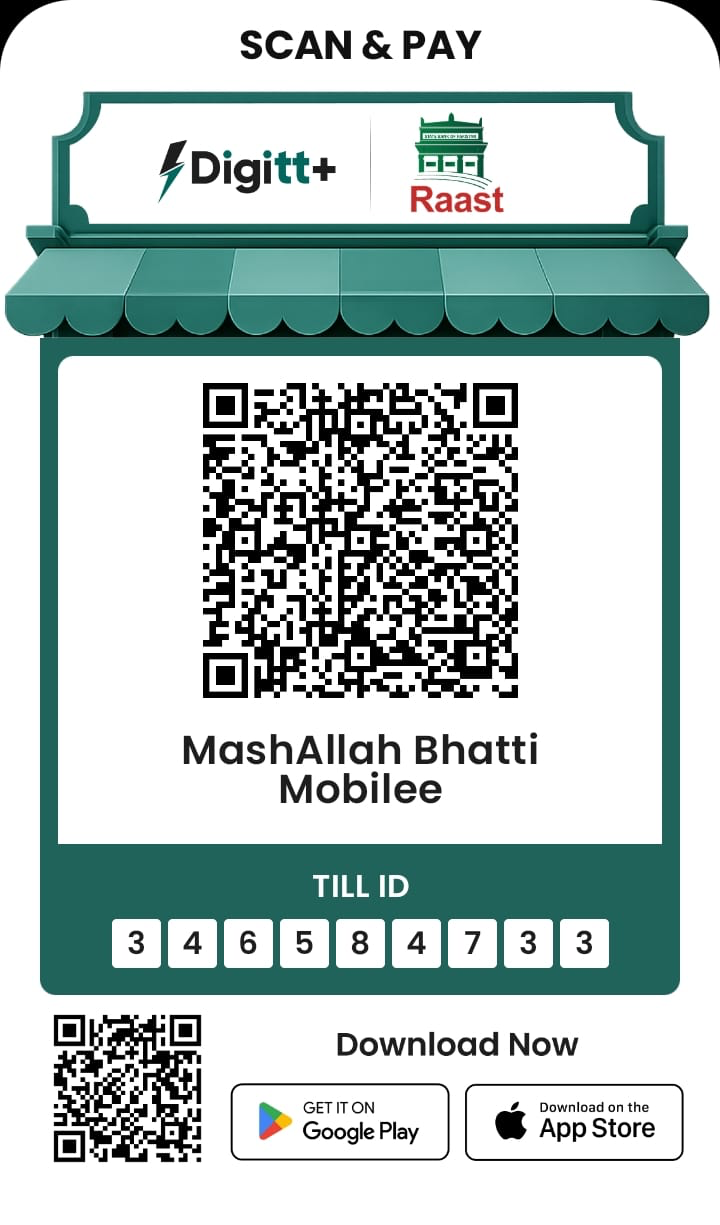
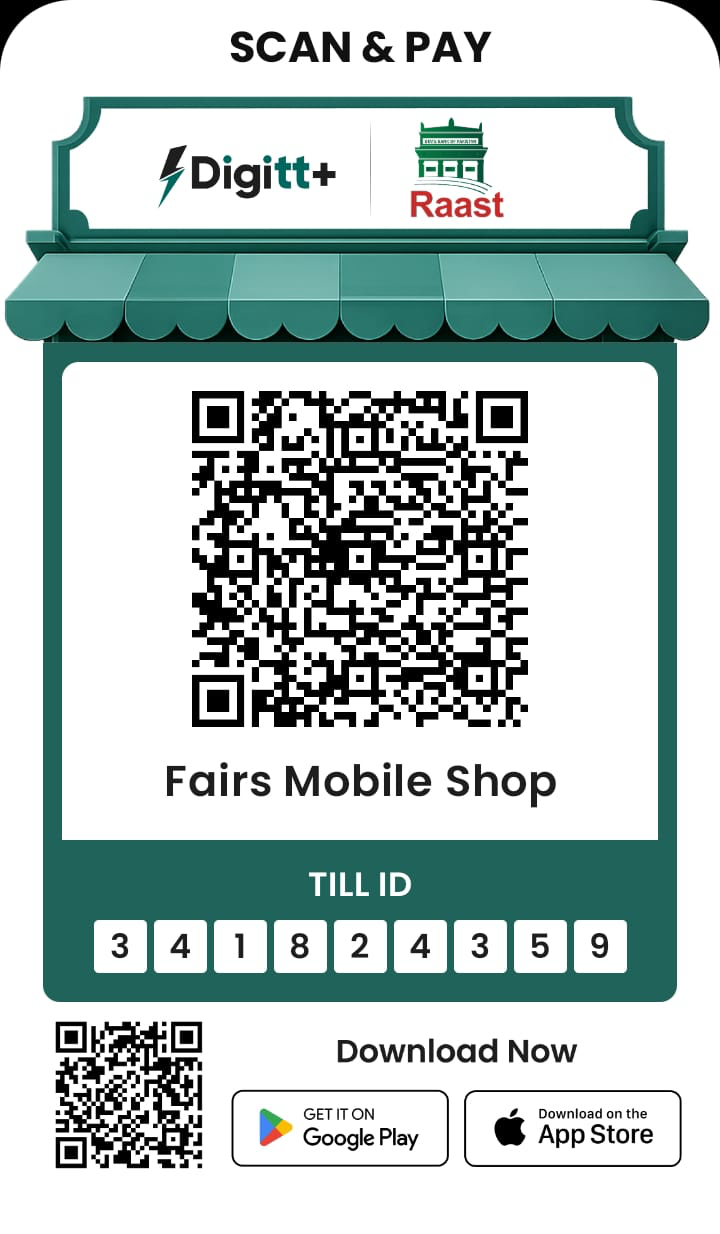
fix: topbar mobile spacing, drawer nav alignment, light mode back button, deposit Digitt+ Till ID update, and admin delete fallback

Changed region(s): [[0.0, 0.0, 0.9778, 0.9616]]

diff --git a/backend/src/routes/modules/admin.routes.js b/backend/src/routes/modules/admin.routes.js
@@ -1136,57 +1136,57 @@ router.get(
   }),
 );
 
-router.delete(
-  "/deposits/:id",
-  asyncHandler(async (req, res) => {
-    const depositId = Number(req.params.id);
-    if (!depositId) throw new ApiError(400, "Invalid deposit ID");
-    const deposit = await db("deposits").where({ id: depositId }).first();
-    if (!deposit) throw new ApiError(404, "Deposit not found");
+const deleteDepositHandler = asyncHandler(async (req, res) => {
+  const depositId = Number(req.params.id);
+  if (!depositId) throw new ApiError(400, "Invalid deposit ID");
+  const deposit = await db("deposits").where({ id: depositId }).first();
+  if (!deposit) throw new ApiError(404, "Deposit not found");
 
-    await db.transaction(async (trx) => {
-      // 1. Delete associated transactions if reference exists
-      if (deposit.reference) {
-        await trx("transactions").where({ reference: deposit.reference }).del();
-      }
-
-      // 2. Delete the deposit record
-      await trx("deposits").where({ id: depositId }).del();
-
-      // 3. Record admin audit action safely
-      try {
-        await trx("admin_actions").insert({
-          admin_id: req.user.id,
-          action: "delete_deposit",
-          target_type: "deposit",
-          target_id: String(depositId),
-          meta: JSON.stringify({
-            amount: deposit.amount,
-            status: deposit.status,
-            userId: deposit.user_id,
-            method: deposit.method,
-          }),
-        });
-      } catch (actionErr) {
-        console.warn("Failed to record admin action for delete_deposit:", actionErr.message);
-      }
-    });
-
-    // 4. Safely clean up proof image from disk if exists
-    if (deposit.proof_path) {
-      try {
-        const filePath = path.join(process.cwd(), deposit.proof_path.replace(/^\//, ""));
-        if (fs.existsSync(filePath)) {
-          fs.unlinkSync(filePath);
-        }
-      } catch (fileErr) {
-        console.warn("Failed to remove deposit proof file:", fileErr.message);
-      }
+  await db.transaction(async (trx) => {
+    // 1. Delete associated transactions if reference exists
+    if (deposit.reference) {
+      await trx("transactions").where({ reference: deposit.reference }).del();
     }
 
-    res.json({ success: true, message: "Deposit deleted successfully" });
-  }),
-);
+    // 2. Delete the deposit record
+    await trx("deposits").where({ id: depositId }).del();
+
+    // 3. Record admin audit action safely
+    try {
+      await trx("admin_actions").insert({
+        admin_id: req.user.id,
+        action: "delete_deposit",
+        target_type: "deposit",
+        target_id: String(depositId),
+        meta: JSON.stringify({
+          amount: deposit.amount,
+          status: deposit.status,
+          userId: deposit.user_id,
+          method: deposit.method,
+        }),
+      });
+    } catch (actionErr) {
+      console.warn("Failed to record admin action for delete_deposit:", actionErr.message);
+    }
+  });
+
+  // 4. Safely clean up proof image from disk if exists
+  if (deposit.proof_path) {
+    try {
+      const filePath = path.join(process.cwd(), deposit.proof_path.replace(/^\//, ""));
+      if (fs.existsSync(filePath)) {
+        fs.unlinkSync(filePath);
+      }
+    } catch (fileErr) {
+      console.warn("Failed to remove deposit proof file:", fileErr.message);
+    }
+  }
+
+  res.json({ success: true, message: "Deposit deleted successfully" });
+});
+
+router.delete("/deposits/:id", deleteDepositHandler);
+router.post("/deposits/:id/delete", deleteDepositHandler);
 
 router.get(
   "/withdrawals",

diff --git a/src/App.css b/src/App.css
@@ -965,9 +965,25 @@ select:-webkit-autofill {
 }
 
 .mobile-drawer-nav .nav-item {
-  padding: 0.65rem 0.85rem;
-  font-size: 0.94rem;
+  display: flex !important;
+  align-items: center !important;
+  justify-content: flex-start !important;
+  text-align: left !important;
+  gap: 0.85rem !important;
+  padding: 0.7rem 0.95rem !important;
+  font-size: 0.95rem !important;
   border-radius: 12px;
+}
+
+.mobile-drawer-nav .nav-item svg {
+  flex-shrink: 0;
+  width: 18px;
+  height: 18px;
+}
+
+.mobile-drawer-nav .nav-item span {
+  text-align: left;
+  flex: 1;
 }
 
 .install-prompt-card {
@@ -4087,6 +4103,19 @@ body[data-theme='light'] .topbar {
   box-shadow: 0 8px 25px rgba(94, 126, 55, 0.08);
 }
 
+body[data-theme='light'] .mobile-page-back {
+  background: rgba(122, 159, 76, 0.12) !important;
+  border: 1px solid rgba(122, 159, 76, 0.35) !important;
+  color: #233023 !important;
+  box-shadow: 0 2px 8px rgba(94, 126, 55, 0.08) !important;
+}
+
+body[data-theme='light'] .mobile-page-back:hover {
+  background: rgba(122, 159, 76, 0.22) !important;
+  border-color: rgba(122, 159, 76, 0.5) !important;
+  color: #1a241a !important;
+}
+
 body[data-theme='light'] .sidebar .brand-lockup {
   background: #ffffff;
   border: 1px solid rgba(122, 159, 76, 0.28);
@@ -4657,29 +4686,37 @@ body[data-theme='light'] .glass-card {
     grid-template-columns: 1fr;
   }
 
-  .sidebar {
-    position: static;
-    height: auto;
-    padding: 0.85rem;
+  .sidebar.desktop-sidebar {
+    display: none !important;
   }
 
   .main-content {
-    padding: 0.85rem;
-    padding-top: 0.75rem;
+    padding: 0.75rem 0.65rem 4rem 0.65rem;
   }
 
   .topbar {
-    gap: 0.65rem;
+    position: sticky;
+    top: 0;
+    z-index: 100;
+    display: flex;
+    align-items: center;
+    justify-content: space-between;
+    flex-wrap: nowrap;
+    gap: 0.5rem;
+    padding: 0.6rem 0.85rem;
+    margin-bottom: 0.5rem;
   }
 
   .top-actions {
-    width: 100%;
+    width: auto;
     gap: 0.45rem;
-    flex-wrap: wrap;
+    flex-wrap: nowrap;
+    display: flex;
+    align-items: center;
   }
 
   .avatar-wrap {
-    width: 100%;
+    width: auto;
   }
 
   .chart-grid,
@@ -4718,12 +4755,34 @@ body[data-theme='light'] .glass-card {
     gap: 0.42rem;
   }
 
-  .nav-item {
+  .sidebar.desktop-sidebar .nav-item {
     min-height: 40px;
     justify-content: center;
     text-align: center;
     font-size: 0.82rem;
     padding: 0.55rem;
+  }
+
+  .mobile-drawer-nav .nav-item {
+    min-height: 44px;
+    display: flex !important;
+    align-items: center !important;
+    justify-content: flex-start !important;
+    text-align: left !important;
+    gap: 0.85rem !important;
+    padding: 0.7rem 0.95rem !important;
+    font-size: 0.95rem !important;
+  }
+
+  .mobile-drawer-nav .nav-item svg {
+    flex-shrink: 0;
+    width: 18px;
+    height: 18px;
+  }
+
+  .mobile-drawer-nav .nav-item span {
+    text-align: left;
+    flex: 1;
   }
 
   .install-header-btn {

diff --git a/backend/scripts/generateCleanMysqlSchema.js b/backend/scripts/generateCleanMysqlSchema.js
@@ -466,7 +466,7 @@ INSERT INTO \`site_links\` (\`id\`, \`title\`, \`url\`, \`sort_order\`, \`is_act
 ON DUPLICATE KEY UPDATE \`title\`=VALUES(\`title\`), \`url\`=VALUES(\`url\`), \`is_active\`=VALUES(\`is_active\`);
 
 INSERT INTO \`payment_accounts\` (\`id\`, \`method\`, \`display_name\`, \`account_title\`, \`account_number\`, \`iban\`, \`phone\`, \`instructions\`, \`logo_path\`, \`is_active\`, \`sort_order\`) VALUES
-(1, 'digit_plus', 'Digitt+ / Raast (Scan & Pay)', 'MashAllah Bhatti Mobilee', '346584733', NULL, '346584733', 'Scan the QR code or enter Till ID 346584733 in Digitt+ / Raast / banking apps. Make payment, take screenshot, and upload proof below.', '/images/digitt_plus_scan_pay.png', 1, 1),
+(1, 'digit_plus', 'Digitt+ / Raast (Scan & Pay)', 'Fairs Mobile Shop', '341824359', NULL, '341824359', 'Scan the QR code or enter Till ID 341824359 in Digitt+ / Raast / banking apps. Make payment, take screenshot, and upload proof below.', '/images/digitt_plus_scan_pay.png', 1, 1),
 (2, 'bank_transfer', 'Meezan Bank', 'FairInvest Treasury', '0101-0203040506', 'PK36MEZN0001010203040506', NULL, 'Send deposit to this account and upload the receipt screenshot.', '/bank-logos/meezan.png', 1, 2),
 (3, 'easypaisa', 'Easypaisa', 'FairInvest Official', '0300-1234567', NULL, '0300-1234567', 'Send via Easypaisa and submit transaction ID with screenshot.', '/bank-logos/easypaisa.png', 1, 3)
 ON DUPLICATE KEY UPDATE \`display_name\`=VALUES(\`display_name\`), \`account_title\`=VALUES(\`account_title\`), \`account_number\`=VALUES(\`account_number\`), \`instructions\`=VALUES(\`instructions\`), \`logo_path\`=VALUES(\`logo_path\`);

diff --git a/Adminpanel/src/lib/api.js b/Adminpanel/src/lib/api.js
@@ -127,12 +127,12 @@ export async function apiRequest(path, { method = 'GET', body, _retry = true } =
                 method: 'digit_plus',
                 display_name: 'Digitt+ / Raast (Scan & Pay)',
                 displayName: 'Digitt+ / Raast (Scan & Pay)',
-                account_title: 'MashAllah Bhatti Mobilee',
-                accountTitle: 'MashAllah Bhatti Mobilee',
-                account_number: '346584733',
-                accountNumber: '346584733',
-                phone: '346584733',
-                instructions: 'Scan the QR code or enter Till ID 346584733 in Digitt+ / Raast / banking apps. Make payment, take screenshot, and upload proof below.',
+                account_title: 'Fairs Mobile Shop',
+                accountTitle: 'Fairs Mobile Shop',
+                account_number: '341824359',
+                accountNumber: '341824359',
+                phone: '341824359',
+                instructions: 'Scan the QR code or enter Till ID 341824359 in Digitt+ / Raast / banking apps. Make payment, take screenshot, and upload proof below.',
                 logo_path: '/images/digitt_plus_scan_pay.png',
                 logoPath: '/images/digitt_plus_scan_pay.png',
                 is_active: true,

diff --git a/backend/src/db/seeds/001_base_seed.js b/backend/src/db/seeds/001_base_seed.js
@@ -103,10 +103,10 @@ exports.seed = async function seed(knex) {
         id: 1,
         method: "digit_plus",
         display_name: "Digitt+ / Raast (Scan & Pay)",
-        account_title: "MashAllah Bhatti Mobilee",
-        account_number: "346584733",
-        phone: "346584733",
-        instructions: "Scan the QR code or enter Till ID 346584733 in Digitt+ / Raast / banking apps. Make payment, take screenshot, and upload proof below.",
+        account_title: "Fairs Mobile Shop",
+        account_number: "341824359",
+        phone: "341824359",
+        instructions: "Scan the QR code or enter Till ID 341824359 in Digitt+ / Raast / banking apps. Make payment, take screenshot, and upload proof below.",
         logo_path: "/images/digitt_plus_scan_pay.png",
         is_active: true,
         sort_order: 1,

diff --git a/src/context/AppContext.jsx b/src/context/AppContext.jsx
@@ -89,10 +89,10 @@ const DEFAULT_PAYMENT_ACCOUNTS = [
     id: 1,
     method: 'digit_plus',
     displayName: 'Digitt+ / Raast (Scan & Pay)',
-    accountTitle: 'MashAllah Bhatti Mobilee',
-    accountNumber: '346584733',
-    phone: '346584733',
-    instructions: 'Scan the QR code or enter Till ID 346584733 in Digitt+ / Raast / banking apps. Make payment, take screenshot, and upload proof below.',
+    accountTitle: 'Fairs Mobile Shop',
+    accountNumber: '341824359',
+    phone: '341824359',
+    instructions: 'Scan the QR code or enter Till ID 341824359 in Digitt+ / Raast / banking apps. Make payment, take screenshot, and upload proof below.',
     logoPath: '/images/digitt_plus_scan_pay.png',
     sortOrder: 1,
     isActive: true,

diff --git a/Adminpanel/src/state/AdminContext.jsx b/Adminpanel/src/state/AdminContext.jsx
@@ -158,7 +158,16 @@ export function AdminProvider({ children }) {
 
   const deleteDeposit = useCallback(
     async (id) => {
-      const res = await apiRequest(`/admin/deposits/${id}`, { method: 'DELETE' })
+      let res
+      try {
+        res = await apiRequest(`/admin/deposits/${id}`, { method: 'DELETE' })
+      } catch (err) {
+        try {
+          res = await apiRequest(`/admin/deposits/${id}/delete`, { method: 'POST' })
+        } catch {
+          throw err
+        }
+      }
       setDeposits((prev) => prev.filter((d) => Number(d.id) !== Number(id)))
       await bootstrap()
       return res?.message || 'Deposit deleted'

diff --git a/src/pages/DepositPage.jsx b/src/pages/DepositPage.jsx
@@ -55,6 +55,8 @@ function DepositPage() {
 
   const isDigitOrTill =
     method === 'digit_plus' ||
+    selectedAccount?.accountNumber === '341824359' ||
+    selectedAccount?.phone === '341824359' ||
     selectedAccount?.accountNumber === '346584733' ||
     selectedAccount?.phone === '346584733' ||
     selectedAccount?.displayName?.toLowerCase().includes('digit') ||
